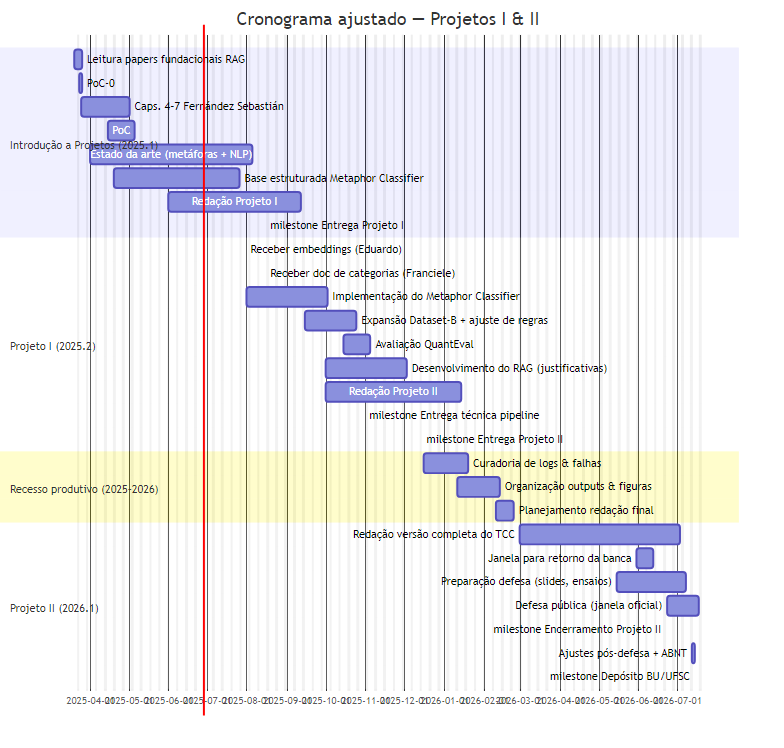
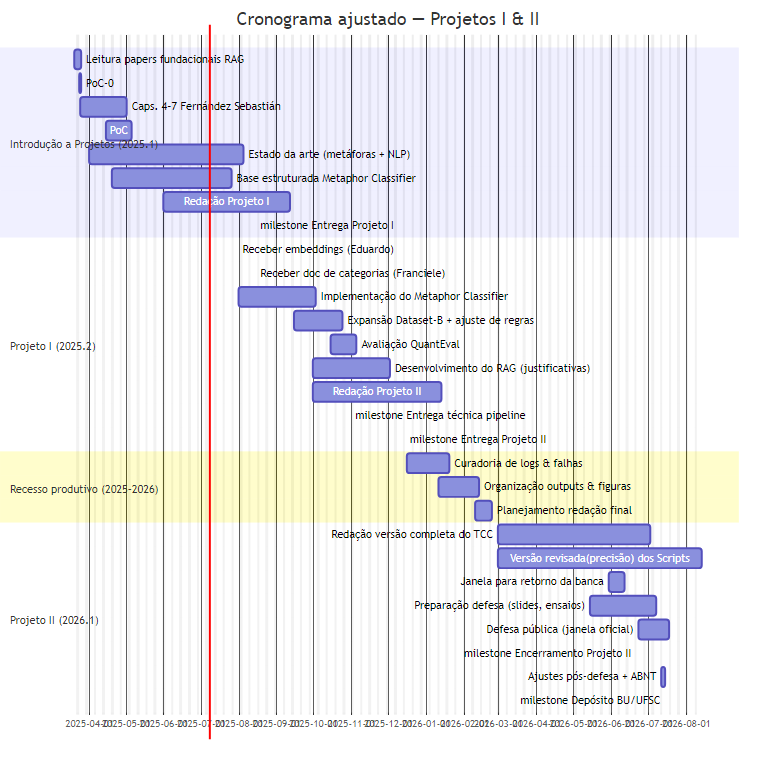
correcoes

diff --git a/ufscthesisx/chapters/proposta.tex b/ufscthesisx/chapters/proposta.tex
@@ -29,7 +29,9 @@ avançadas dos modelos grandes de linguagem (LLMs) com mecanismos de
 recuperação automatizada de contextos históricos e literários
 relevantes. Espera-se, assim, contribuir para uma compreensão mais
 fundamentada e transparente de metáforas em corpora históricos,
-oferecendo suporte empírico para hipóteses historiográficas.
+oferecendo suporte empírico para hipóteses historiográficas. O RAG cumpre 
+a função central do trabalho de prova historiográfico, atuando em sua 
+função referencial \citep{lewis2020retrieval}.
 
 \section{\textbf{Objetivos}}{Objetivos}\label{objetivos}
 
@@ -40,8 +42,8 @@ Desenvolver e integrar dois módulos: o \emph{Metaphor Classifier},
 responsável por atribuir categorias históricas a metáforas previamente
 detectadas e expandir o conjunto de exemplos por meio de recuperação
 semântica de ocorrências análogas; e o \emph{RAG}, voltado à geração de
-justificativas textuais embasadas, citando evidências históricas
-relevantes para cada classificação.
+justificativas textuais embasadas, citando e recuperando evidências 
+históricas relevantes para cada classificação.
 
 \subsection{\texorpdfstring{\textbf{Objetivos
 Específicos}}{Objetivos Específicos}}\label{objetivos-especuxedficos}
@@ -149,8 +151,7 @@ restrições}\label{premissas-restriuxe7uxf5es}
 \begin{itemize}
 \tightlist
 \item
-  VLab-UFSC disponível com GPU/CPU até \textbf{dez 2025}; 2026 não
-  requer execução de código.\\
+  VLab-UFSC disponível com GPU/CPU até \textbf{julho/2026}.\\
 \item
   Textos históricos em domínio público; nenhuma licença adicional é
   necessária.\\
@@ -225,10 +226,12 @@ resumido}\label{cronograma-tuxe9cnico-resumido}
     Planejamento da redação final do TCC
   \end{itemize}
 \item
-  \textbf{mar--mai 2026}
+  \textbf{mar--jun 2026}
 
   \begin{itemize}
   \tightlist
+  \item
+    Versão revisada(foco em precisão) dos Scripts
   \item
     Redação da versão completa do TCC final
   \end{itemize}
@@ -254,8 +257,7 @@ resumido}\label{cronograma-tuxe9cnico-resumido}
   \end{itemize}
 \end{itemize}
 
-\section{\textbf{Método de
-Pesquisa}}{Método de Pesquisa}\label{muxe9todo-de-pesquisa}
+\section{\textbf{Método de Pesquisa}}{Método de Pesquisa}\label{muxe9todo-de-pesquisa}
 
 Adotar-se-á uma abordagem mista, combinando métodos quantitativos e
 qualitativos. A dimensão \textbf{quantitativa} será utilizada sempre que
@@ -342,9 +344,9 @@ Humanos}}{Recursos Humanos}\label{recursos-humanos}
     Jean Carlo Rossa Hauck & Coorientador/Responsável \\
     Chiru Stefan & Mentor técnico \\
     Patricia Biral Varela & Pesquisadora em História (aprendiz técnica) \\
-    Maiko Ademir Nunes & Desenvolvedor de Pipeline \\
-    Giovanna Ramalho & Desenvolvedora de Pipeline \\
-    Eduardo Peres Luckner Goulart & Desenvolvedor de Pipeline \\
+    Maiko Ademir Nunes & Desenvolvedor Junior \\
+    Giovanna Ramalho & Engenharia de Software \\
+    Eduardo Peres Luckner Goulart & Desenvolvedor Junior \\
     Franciele Dias da Silva & Pesquisadora em História com função
     organizacional \\
     Mateus Freitas Borsatti & Pesquisador em História \\
@@ -353,14 +355,14 @@ Humanos}}{Recursos Humanos}\label{recursos-humanos}
     Isabella Stersa de Oliveira & Pesquisadora em História \\
     Gilson Mateus Pinto Júnior & Pesquisador em História \\
     Leonardo Nogueira Aucar & Pesquisador em História \\
-    Gabriela Graudenz Muller & Pesquisadora em História \\
+    Gabriela Graudenz Muller & Linguística \\
     Willian Meurer Welter & Pesquisador em História \\
     Danillo Melo da Fonseca & Pesquisador em História (aprendiz técnico) \\
     Alysson Julio Risso da Silva & Pesquisador em História \\
     Marcel Vieira Silva & Pesquisador em História (aprendiz técnico) \\
-    Thamiris Fátima dos Santos & Pesquisadora em História \\
+    Thamiris Fátima dos Santos & Desenvolvedor Front-End \\
     Renata da Conceição Aquino da Silva & Pesquisadora em História \\
-    Fernanda Lyrio Heinzelmann & Pesquisadora em História \\
+    Fernanda Lyrio Heinzelmann & Psicologia \\
     Breno Ampáro & Pesquisador em História \\
     Gabriel Choucair Garcia & Pesquisador em História \\ \bottomrule
   \end{tabularx}
@@ -381,8 +383,8 @@ Humanos}}{Recursos Humanos}\label{recursos-humanos}
                                     >{\RaggedRight\arraybackslash}X@{}}
     \toprule
     O que será comunicado & Por quem & Para quem & Meio & Frequência \\ \midrule
-    Progresso técnico (pipeline, classificador, RAG) & Autor & Equipe técnica & Reunião Google Meet & Ter 14 h – 16 h semanal \\[2pt]
-    Discussões conceituais sobre categorias & Autor & Equipe de História & Reunião Google Meet & Ter 16h30 – 17h30 semanal \\[2pt]
+    Progresso técnico (pipeline, classificador, RAG) & Autor & Equipe técnica & Reunião Google Meet & Ter 14 h - 16 h semanal \\[2pt]
+    Discussões conceituais sobre categorias & Autor & Equipe de História & Reunião Google Meet & Ter 16h30 - 17h30 semanal \\[2pt]
     Dúvidas de código/ferramentas & Autor & Stefan (coorientador técnico) & WhatsApp ou reunião & Sob demanda / semanal \\[2pt]
     Entregas parciais & Autor & Orientador(es) & GitHub / reunião & Ao final de cada etapa \\[2pt]
     Integrações entre módulos & Equipe técnica & Integrador designado & WhatsApp / Discord & Quando necessário \\[2pt]

diff --git a/ufscthesisx/main.tex b/ufscthesisx/main.tex
@@ -87,7 +87,7 @@ section=TITLE, % Título de seções em caixa alta
 \coorientador[\lang{Responsible Professor}{Professor Responsável}]{\brazilword{Jean Carlo Rossa Hauck}, \lang{Phd.}{Dr.}}
 
 % FIXME: Preencher com o nome do Coordenador de TCCs/Teses do seu curso
-\coordenador[\lang{Coordenador}{}]{\brazilword{Renato Cislaghi}, \lang{Phd.}{Dr.}}
+%\coordenador[\lang{Coordenador}{}]{\brazilword{Renato Cislaghi}, \lang{Phd.}{Dr.}}
 
 % FIXME: Local da sua defesa
 \local{\brazilword{Florianópolis, Santa Catarina} -- \lang{Brazil}{Brasil}}
